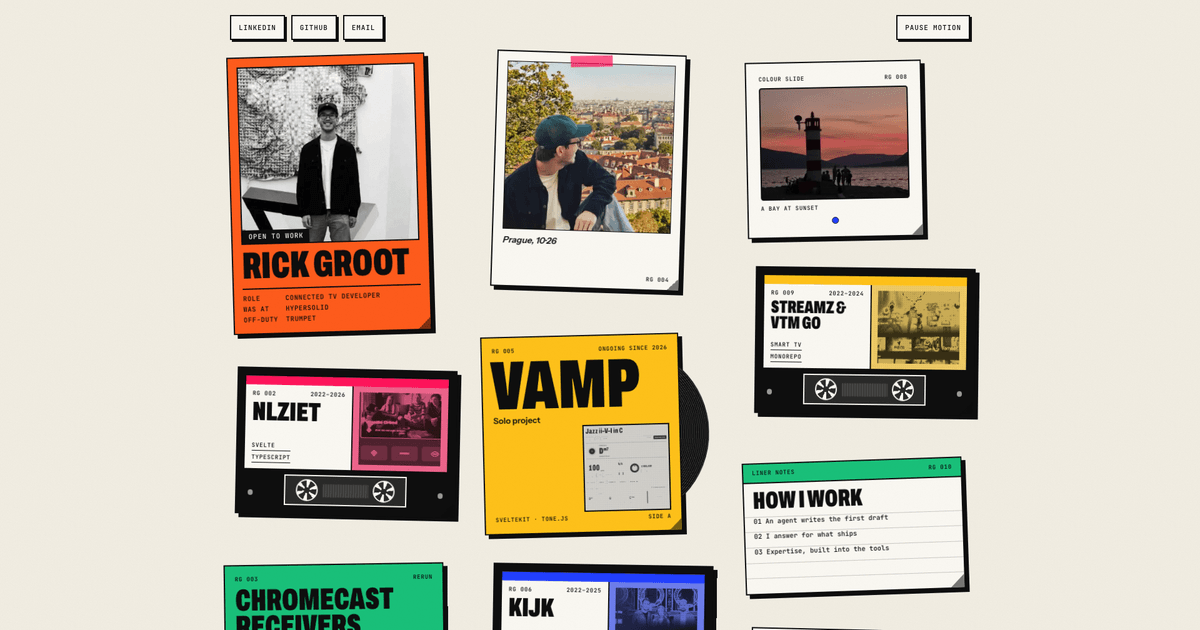
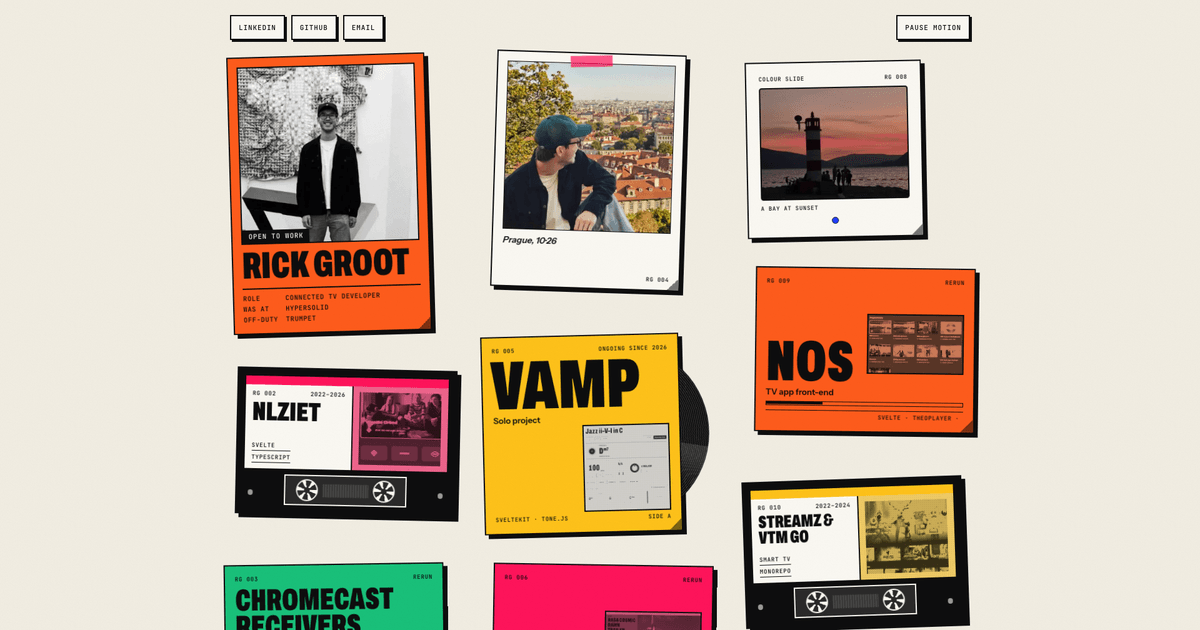
feat: add Sleeve to the table, and steady the contact ticket
Sleeve, the Video.js skin, joins the work as a listing card (RG 006),
its cover cropped from the project's own "ready" screenshot. The cards
after it move down one place in the order.

The contact ticket:
- Hover no longer flickers at the corners. The lift and the pointer tilt
  carried the corner out from under the pointer; a still hover pad round
  each card and a clamped tilt keep it hovered.
- The torn stub's back no longer overflows. Its buttons and type are
  sized in px on a card sized in cqw, so a tearable ticket is at least
  300px tall.

The page no longer scrolls sideways: .slot is an inline-block, so the
stub cannot open a phantom fourth column, and <main> clips, since
body's clip only acts as hidden on the viewport.

Tests cover the stub at 320, 375, 821 and 1366px, the corner hover,
and the Sleeve card.

diff --git a/tests/e2e/contact.spec.ts b/tests/e2e/contact.spec.ts
@@ -86,6 +86,51 @@ test('the stub tears off, turns over to the actions, and puts back', async ({ pa
 	await expect(tear).toBeFocused();
 });
 
+// The back of the stub is drawn in px (44px targets, 12px type) on a card
+// drawn in cqw, so it ran out of room on every width (2026-11-24).
+for (const width of [320, 375, 821, 1366]) {
+	test(`${width}px: the torn stub holds every action without overflowing`, async ({ browser }) => {
+		const context = await browser.newContext({
+			viewport: { width, height: 900 },
+			reducedMotion: 'reduce',
+		});
+		const page = await context.newPage();
+		await page.goto('/');
+		const ticket = page.locator('.slot.ticket');
+		await ticket.scrollIntoViewIfNeeded();
+		await ticket.locator('.tear').click();
+		await expect(ticket).toHaveClass(/is-torn/);
+		const back = await ticket.locator('.stub.bk').evaluate((el) => ({
+			over: el.scrollHeight - el.clientHeight,
+			wide: el.scrollWidth - el.clientWidth,
+		}));
+		expect(back.over, 'the stub back overflows downwards').toBeLessThanOrEqual(0);
+		expect(back.wide, 'the stub back overflows sideways').toBeLessThanOrEqual(0);
+		await context.close();
+	});
+}
+
+// Hover lifts a card and the pointer tilts it away, which carried a corner out
+// from under the pointer: hover dropped, the card fell back, and it flickered.
+test('a pointer resting on the ticket corner keeps it hovered', async ({ browser }) => {
+	const context = await browser.newContext({ viewport: { width: 430, height: 900 } });
+	const page = await context.newPage();
+	await page.goto('/');
+	const ticket = page.locator('.slot.ticket');
+	await ticket.scrollIntoViewIfNeeded();
+	await page.waitForTimeout(900); // the deal
+	const box = await ticket.boundingBox();
+	if (!box) throw new Error('no ticket');
+	await page.mouse.move(box.x + box.width * 0.99, box.y + box.height * 0.01);
+	const states: boolean[] = [];
+	for (let i = 0; i < 20; i++) {
+		await page.waitForTimeout(30);
+		states.push(await ticket.evaluate((el) => el.matches(':hover')));
+	}
+	expect(states.every(Boolean), states.map((s) => (s ? 'H' : '-')).join('')).toBe(true);
+	await context.close();
+});
+
 test('with reduced motion the stub just swaps state', async ({ browser }) => {
 	const context = await browser.newContext({ reducedMotion: 'reduce' });
 	const page = await context.newPage();

diff --git a/src/styles/formats.css b/src/styles/formats.css
@@ -358,6 +358,11 @@
 	--print-lift: 1.4;
 }
 
+/* Sleeve's screen is already printed (an orange field, a greyscale picture). */
+[data-card='sleeve'] {
+	--print-lift: 1.15;
+}
+
 .print::after {
 	content: '';
 	position: absolute;
@@ -609,6 +614,13 @@ html:not(.js) .ticket .code {
 	font: 900 max(15px, 4.6cqw) / 1.1 var(--display);
 	font-stretch: 62%;
 	text-transform: uppercase;
+}
+
+/* The back of the stub is sized in px, not cqw: 44px touch targets and 12px */
+/* type. Four rows of them need about 290px of height, which a 4:3 ticket */
+/* never has, so the ticket is never shorter than that (2026-11-24). */
+.ticket.tearable {
+	min-height: 300px;
 }
 
 /* The ways to reach me, on the back of the stub. */

diff --git a/src/scripts/table.ts b/src/scripts/table.ts
@@ -195,8 +195,9 @@ export function boot(): void {
 			return;
 		}
 		const r = slot.getBoundingClientRect();
-		const x = (e.clientX - r.left) / r.width;
-		const y = (e.clientY - r.top) / r.height;
+		// Clamped: on the hover pad around the card the pointer is outside it.
+		const x = Math.min(1, Math.max(0, (e.clientX - r.left) / r.width));
+		const y = Math.min(1, Math.max(0, (e.clientY - r.top) / r.height));
 		slot.style.setProperty('--ry', `${((x - 0.5) * 14).toFixed(2)}deg`);
 		slot.style.setProperty('--rx', `${((0.5 - y) * 14).toFixed(2)}deg`);
 		slot.style.setProperty('--mx', `${(x * 100).toFixed(1)}%`);

diff --git a/tests/e2e/smoke.spec.ts b/tests/e2e/smoke.spec.ts
@@ -3,7 +3,7 @@ import { test, expect } from '@playwright/test';
 test('the table renders identity and the work as cards', async ({ page }) => {
 	await page.goto('/');
 	await expect(page.locator('h1')).toHaveText('Rick Groot');
-	for (const id of ['nlziet', 'vamp', 'kijk', 'nos', 'chromecast', 'streamz-vtm-go']) {
+	for (const id of ['nlziet', 'vamp', 'sleeve', 'kijk', 'nos', 'chromecast', 'streamz-vtm-go']) {
 		await expect(page.locator(`[data-card="${id}"]`), id).toHaveCount(1);
 	}
 });

diff --git a/src/styles/card.css b/src/styles/card.css
@@ -749,6 +749,16 @@ html:not(.js) .disc {
 }
 
 @media (hover: hover) {
+	/* A hover pad that does not move. Hover lifts the card and the pointer */
+	/* tilts it away, which carries a corner out from under the pointer; */
+	/* without the pad hover drops, the card falls back under the pointer, */
+	/* and it flickers. Painted first, so the card itself is hit above it. */
+	.slot::before {
+		content: '';
+		position: absolute;
+		inset: -14px;
+	}
+
 	.slot:hover {
 		z-index: 3;
 	}

diff --git a/src/styles/base.css b/src/styles/base.css
@@ -46,6 +46,14 @@ body {
 	overflow-x: clip;
 }
 
+/* body's overflow passes to the viewport, where `clip` acts as `hidden`: the */
+/* page still measured wider than the window (a spinning record's square box */
+/* on a phone, a card's hover pad at the edge). <main> is a plain box, so */
+/* its clip really clips (2026-11-24). */
+main {
+	overflow-x: clip;
+}
+
 /* One paper-grain layer over the whole page. Fixed, so it costs one layer. */
 body::after {
 	content: '';

diff --git a/src/styles/table.css b/src/styles/table.css
@@ -73,7 +73,12 @@ html:not(.js) .still-toggle {
 	display: none;
 }
 
+/* An inline-block, not a block with break-inside: avoid. As a block, the */
+/* ticket's 3D stub at the foot of the last column spilled into a phantom */
+/* fourth column and the page scrolled sideways (2026-11-24, at 12 cards). */
 .slot {
+	display: inline-block;
+	vertical-align: top;
 	break-inside: avoid;
 	width: var(--w, 100%);
 	margin: 0 0 64px;

diff --git a/src/content/work/sleeve.md b/src/content/work/sleeve.md
@@ -1,0 +1,35 @@
+---
+title: Sleeve
+role: Solo project
+company: Independent
+period: '2026'
+status: completed
+summary: A Video.js v10 skin for video and audio that prints the player on the video like a record cover. My entry for the Video.js Skins Design Challenge.
+tags: ['Video.js', 'CSS', 'TypeScript']
+format: listing
+pigment: red
+cover: ../../assets/work/screens/sleeve.jpg
+# COPY CHECK (2026-11-24): alt for the cover (the README's "ready" screenshot).
+coverAlt: 'The Sleeve video skin before play: an orange cover panel reading "Ready, NASA Cosmic Dawn trailer, 1:51" beside a greyscale rocket launch, over a strip of square control cells.'
+# COPY CHECK (2026-11-24): a listing's one line, first person.
+blurb: My Video.js skin prints the player on the video, like a record cover.
+# COPY CHECK (2026-11-24): drafted from the repository's README and design note.
+built:
+  - 'A colour field that sizes to the player state'
+  - 'An audio look for media without a picture'
+  - 'Plays HLS, DASH, live, YouTube and Vimeo'
+order: 4
+links:
+  - label: Live demo
+    href: 'https://rickgroot.github.io/VideoJS-Retro-Player/'
+  - label: Source
+    href: 'https://github.com/RickGroot/VideoJS-Retro-Player'
+---
+
+Sleeve is a skin for Video.js v10, for video and audio, made for the Video.js Skins Design
+Challenge. The idea: the video is the photograph on a record cover and the player is printed on it.
+Ink on paper, square corners, 2px rules, condensed capitals, and one flat block of colour that
+changes size with how much the player needs you.
+
+With no picture, the cover itself is the player. It is plain HTML and CSS on Video.js's own
+elements, with no player API of its own. It is a proof of concept, checked by hand in Chromium.

diff --git a/src/assets/IMAGES.md b/src/assets/IMAGES.md
@@ -23,6 +23,7 @@ file names are not kept either: phone file names are capture timestamps.
 | `work/screens/vamp.jpg`           | Crop: VAMP's chord editor, Rick's own screenshot                        | VAMP cover             |
 | `work/screens/nos.jpg`            | Crop: the NOS app's screen, Rick's own screenshot                       | NOS cover              |
 | `work/screens/streamz-vtm-go.jpg` | Crop: the VTM GO app's screen, Rick's own screenshot                    | Streamz & VTM GO cover |
+| `work/screens/sleeve.jpg`         | Crop: the Sleeve skin before play, Rick's own screenshot                | Sleeve cover           |
 
 Chromecast has no image: its card draws a phone casting to a TV that runs the receiver, as inline SVG.
 
@@ -63,6 +64,11 @@ programme art inside the screenshots belongs to the broadcasters.
 Crop rectangles on the old 1672x941 composites (x, y, width, height): NLZIET 664,164,564,284; KIJK
 535,147,603,315; VTM GO 592,166,450,256; NOS 552,141,612,346; VAMP 515,195,330,330 (the chord
 blocks, squared for the sleeve). Where a screen was angled, the largest clean rectangle inside it.
+
+Sleeve's cover (2026-11-24) is not from a composite: it is the "ready" screenshot in Rick's own Sleeve
+repository (`docs/media/sleeve-1-ready.jpg`, 1600x1200), cropped to 64,140,1472,920 so the whole
+player fits the listing's 16:10 screen, then resized to 960x600. The frame inside the player is from
+NASA's Cosmic Dawn trailer, NASA media.
 
 ## How the photographs were chosen
 

diff --git a/docs/card-system.md b/docs/card-system.md
@@ -26,7 +26,7 @@ turns; the page prints no instruction. Decided by Rick, 2026-11-23, layout "A, t
 | -------- | ---------------------- | ----------------------- |
 | player   | Rick (the masthead)    | the record light blinks |
 | tape     | NLZIET, KIJK, Streamz  | the reels spin          |
-| listing  | NOS                    | the progress bar fills  |
+| listing  | NOS, Sleeve            | the progress bar fills  |
 | cast     | Chromecast             | the cast arcs send      |
 | sleeve   | VAMP (a record behind) | the record turns        |
 | liner    | How I work             | notes type in           |

diff --git a/src/content/work/nos.md b/src/content/work/nos.md
@@ -20,7 +20,7 @@ built:
   - 'Chapters in video playback'
   - 'A maintainable Svelte UI for the remote'
   - 'Live and on-demand playback, THEOplayer'
-order: 5
+order: 6
 ---
 
 For the Dutch broadcaster NOS, I worked on the development of their Smart TV app, with focus on

diff --git a/src/content/work/streamz-vtm-go.md b/src/content/work/streamz-vtm-go.md
@@ -16,7 +16,7 @@ built:
   - 'A white-label Smart TV app'
   - 'One monorepo serving Streamz and VTM GO'
   - 'From browsing to playback on the remote'
-order: 6
+order: 7
 ---
 
 From 2022 to 2024 I worked on the Smart TV apps of Streamz and VTM GO, two Belgian streaming
